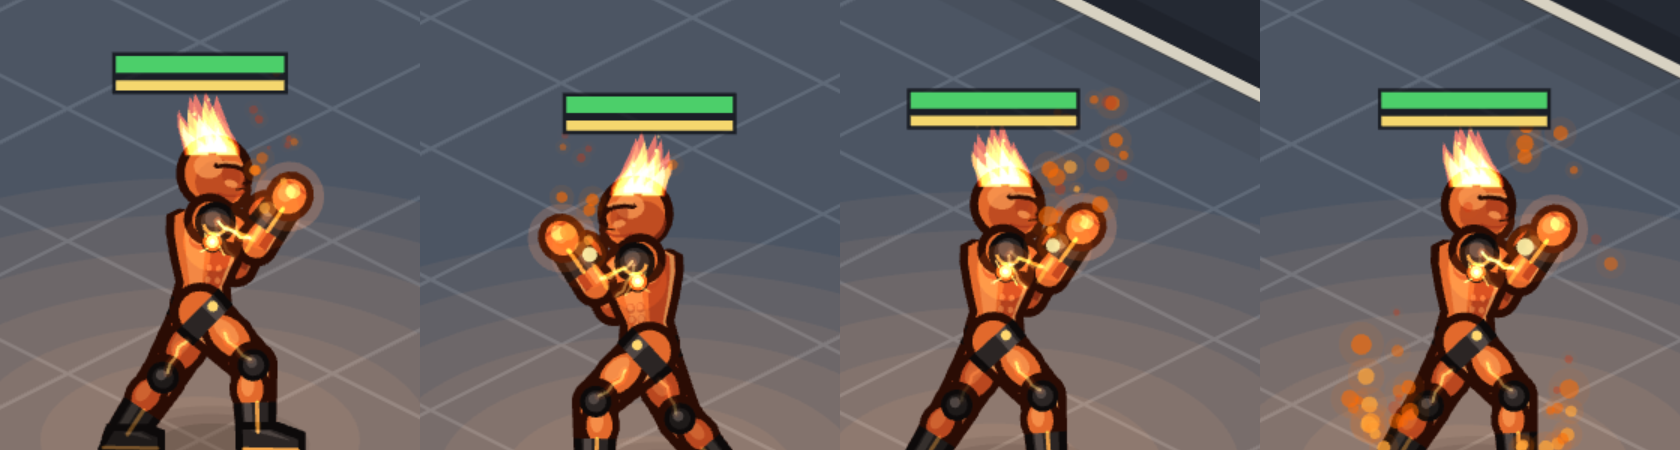
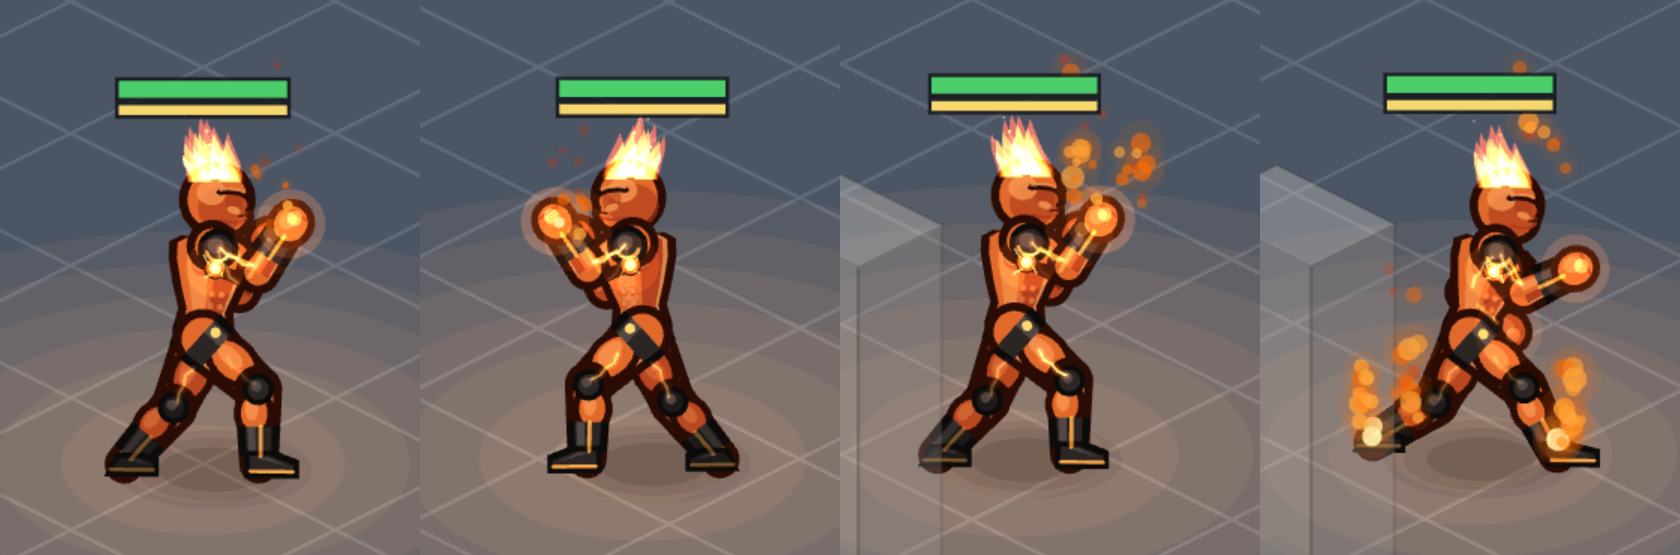
Inferno: slimmer boots (owner); redesign prototypes approved, TD-059 accepted
Claude-Session: https://claude.ai/code/session_01QBNX6gUrhxuARRaUjYajAg

diff --git a/src/rendering/magma-model.ts b/src/rendering/magma-model.ts
@@ -381,33 +381,33 @@ export class MagmaModel {
     const v = frame(knee, ankle);
     // The foot points "forward" (+x in his frame), turned with the shin a little.
     const fx = Math.abs(v.uy) > 0.35 ? 1 : Math.sign(v.ux) || 1;
-    const sole = { x: ankle.x + v.ux * w * 0.35, y: ankle.y + v.uy * w * 0.35 };
-    const toe = { x: sole.x + fx * w * 1.55, y: sole.y + w * 0.08 };
-    const heel = { x: sole.x - fx * w * 0.5, y: sole.y + w * 0.05 };
-    const top = { x: ankle.x - v.ux * w * 0.4, y: ankle.y - v.uy * w * 0.4 };
+    const sole = { x: ankle.x + v.ux * w * 0.3, y: ankle.y + v.uy * w * 0.3 };
+    const toe = { x: sole.x + fx * w * 1.3, y: sole.y + w * 0.06 };
+    const heel = { x: sole.x - fx * w * 0.36, y: sole.y + w * 0.04 };
+    const top = { x: ankle.x - v.ux * w * 0.3, y: ankle.y - v.uy * w * 0.3 };
     const outline = this.c(MAGMA.armourEdge);
     const shape = (grow: number) => [
-      top.x - fx * (w * 0.5 + grow),
+      top.x - fx * (w * 0.34 + grow),
       top.y - grow,
-      top.x + fx * (w * 0.55 + grow),
+      top.x + fx * (w * 0.38 + grow),
       top.y - grow,
       toe.x + fx * grow,
-      toe.y - w * 0.45 - grow,
+      toe.y - w * 0.3 - grow,
       toe.x + fx * grow,
       toe.y + grow,
       heel.x - fx * grow,
       heel.y + grow,
     ];
-    g.poly(shape(w * 0.28)).fill(outline);
+    g.poly(shape(w * 0.2)).fill(outline);
     g.poly(shape(0)).fill(this.c(far ? toward(MAGMA.armour, 0x000000, 0.3) : MAGMA.armour));
     // Lit upper and a glowing sole line.
     g.poly([
-      top.x - fx * w * 0.2,
+      top.x - fx * w * 0.14,
       top.y + w * 0.05,
-      top.x + fx * w * 0.5,
+      top.x + fx * w * 0.34,
       top.y + w * 0.05,
       toe.x - fx * w * 0.2,
-      toe.y - w * 0.38,
+      toe.y - w * 0.25,
     ]).fill({
       color: this.c(MAGMA.armourLit),
       alpha: far ? 0.35 : 0.7,

diff --git a/STICKMAN_ARENA_MASTER_SPEC.md b/STICKMAN_ARENA_MASTER_SPEC.md
@@ -341,7 +341,7 @@ No numeric values were supplied (OQ-05).
 | REQ-ABL-20 | **Curse of Decay (owner, 12/11/2026, SUP-25; replaces Necro's Teleport on F):** a decay bolt at the opponent; on a hit the target deals 30% less damage and its defence drops by 20% for 6 s (a new curse refreshes the time, never stacks). The target shows green rot on its body and two falling green chevrons overhead; when the curse ends the rot flakes away with its own effect and sound. Cooldown 12 s, 30 stamina. |
 | REQ-ABL-21 | **Shroud: Shadow Escape and lights out (owner, 12/11/2026, SUP-25):** Q **Shadow Escape** (replaces Thrown Blade) is strictly defensive: he sinks into his shadow and slips out 7 m away from the opponent at once, turned aside from walls, never inside walls, furniture or outside the arena; no damage. The ultimate **Hunting Frenzy** now also bursts a light bulb (its own sound) and puts the lights out on every opponent for its 8 s: the opponent sees only a 1.6 m circle round itself, everything else almost black (an AI cannot find targets beyond it), while Shroud sees everything in a night-vision view. Knife damage bonus 10% (was 35%); everything else unchanged. |
 | REQ-AUD-10 | **Battle music and the fight stinger (owner, 12/11/2026, SUP-24):** fight arenas play the **owner's supplied Japanese gaming boss-battle track** (owner: "use this audio instead, just use this"), unchanged except that its final fade-out is cut and its end crossfaded on the beat back into the body (43.7 s), so it plays the intro once and then loops for the whole fight with no gap, from FIGHT!, mixed under the combat sounds (music volume in Settings). The READY... FIGHT! intro carries an original cinematic stinger (READY hit, an accelerating drum build, a breath of silence, a huge FIGHT impact and a hall echo) modelled on the owner's voice reference and rendered by `tools/audio/`. The Testing Area keeps no music (SUP-22). |
-| REQ-VIS-10 | **Visual redesign, prototype stage (owner, 13/11/2026):** the game's look moves toward the owner's reference images 2 and 3 (painted, muscular, professionally designed fighters and detailed furniture). First two prototypes, for owner approval before anything else is redesigned: **Inferno** (a heroic muscular build with shaded anatomy, ember skin, charcoal armour, a molten chest core, lava veins, glowing fists and a flame crest; on the same rig, so every animation works) with a **premium portrait** drawn from the in-game model, and the **bookshelf** (real cabinetry: board thickness, cornice, plinth, recessed shelves, 3D books and objects, wood grain and lighting; behaviour unchanged). Status: awaiting owner approval. |
+| REQ-VIS-10 | **Visual redesign, prototype stage (owner, 13/11/2026):** the game's look moves toward the owner's reference images 2 and 3 (painted, muscular, professionally designed fighters and detailed furniture). First two prototypes, for owner approval before anything else is redesigned: **Inferno** (a heroic muscular build with shaded anatomy, ember skin, charcoal armour, a molten chest core, lava veins, glowing fists and a flame crest; on the same rig, so every animation works) with a **premium portrait** drawn from the in-game model, and the **bookshelf** (real cabinetry: board thickness, cornice, plinth, recessed shelves, 3D books and objects, wood grain and lighting; behaviour unchanged). Status: **approved by the owner 13/11/2026** (slimmer boots requested and done); this is the standard for the rest of the redesign. |
 | REQ-CTL-20 | **Dodge direction (owner, 12/11/2026):** every dodge (right click, the DODGE button, a stick flick) moves the fighter straight **backwards relative to its facing**, whatever the movement input says. The facing does not change during the dodge. The back-step is quick off the mark and eases to a stop, so it always covers the same distance (about 2.4 m, less only if something blocks it). |
 | REQ-CTL-19 | **Main menu and leaving the game (owner, 12/11/2026):** a main menu (fighter cards, arena choice, Play) opens on a fresh visit. Settings has **Leave game** (back to the menu) and **Fullscreen**. On phones and tablets the game fills the screen (fullscreen and landscape on the first tap where the browser allows; not available on iPhone Safari), and short landscape screens use a compact HUD and a tighter touch cluster so nothing overlaps. |
 | REQ-ABL-11 | **Magic Attack VFX Standard (owner, 11/11/2026; benchmark: the Fireball):** every magic attack uses the stages that fit it (charge, core, travel, impact, reaction, sound, lingering, elemental defeat), in its own element's look, synchronised with its timing and hits (`docs/design/MAGIC_VFX_STANDARD.md`). A fire KO burns the body away to ash. |
@@ -541,6 +541,7 @@ Browser verification uses the documented dev command and browser automation: tes
 
 | Date | Change | By |
 |---|---|---|
+| 13/11/2026 | Owner approved the redesign prototypes (REQ-VIS-10, TD-059 accepted); Inferno's boots slimmed. | Master Developer |
 | 13/11/2026 | Owner: visual-redesign prototypes, Inferno, his premium portrait and the bookshelf (REQ-VIS-10), awaiting approval. | Master Developer |
 | 12/11/2026 | Owner: battle music (the owner's supplied Japanese boss track, looped) and the fight stinger (REQ-AUD-10, SUP-24); Undead Army back on a 10 s timer (SUP-24); Curse of Decay replaces Teleport (REQ-ABL-20, SUP-25); Shadow Escape, lights out and night vision, knife +10% (REQ-ABL-21, SUP-25); steady thrown-furniture arcs (REQ-PHY-13, SUP-26). | Master Developer |
 | 12/11/2026 | Owner: Shroud (REQ-ABL-18); Heavy Attack and ultimate on I (REQ-CMB-30, SUP-23); target lock (REQ-CTL-22); Fire Beam build-up and J/L sweep (REQ-ABL-19); fight intro (REQ-AUD-9); tumbling furniture (REQ-PHY-13); testing area silent (SUP-22); centred heads behind the near arm; restyled ability icons. | Master Developer |

diff --git a/TECHNICAL_DECISIONS.md b/TECHNICAL_DECISIONS.md
@@ -495,9 +495,9 @@ Installed (see `package.json`): pixi.js 8.22, @dimforge/rapier2d 0.21 (TD-023); 
 **Alternatives.** Procedural Web Audio music (rejected: the owner asked for real assets); using the supplied reference files (rejected: references are guides only, spec §2); a status-effect component system (premature with four statuses).
 **Trade-offs.** About 8.5 MB of audio (both formats; a browser downloads one, about 4 MB); the music cannot be heard in CI, so its checks are measured (loop points, seam continuity, decode in the browser) and the owner's listening is the final judge. The supplied track is third-party: its licence must be confirmed by the owner (see the asset register).
 
-### TD-059: Premium redesign inside the code-drawn 2D renderer — PROPOSED (prototype, owner request 13/11/2026)
+### TD-059: Premium redesign inside the code-drawn 2D renderer — ACCEPTED (owner approved the prototypes 13/11/2026)
 **Context.** The owner asked for a full visual redesign toward painted, muscular fighters and detailed furniture (reference images 2 and 3), starting with two prototypes for approval: Inferno with a portrait, and a bookshelf.
 **Decision.** Stay inside the approved renderer (TD-022, TD-045: PixiJS vector drawing, no change to the rendering or physics architecture). A premium look is a **body style** with its own model module drawn on the shared rig (`magma`: `src/rendering/magma-model.ts`), so every animation, ability and reaction drives it unchanged and shared code still never names a character. Painted volume comes from layered fills (outline, mid tone, shadow side, lit side, warm rim), muscle masses, armour plates and an additive glow layer. Portraits stay rendered from the in-game model (no second painting to drift out of step); premium ones add a lit backdrop, vignette and frame and render at twice the resolution. Furniture redesigns replace only the prop's drawing (`src/rendering/bookshelf-view.ts`); size, collision, climbing and damage come from the prop data as before.
 **Alternatives.** Hand-painted sprite sheets (rejected for now: every animation would need painting, and it changes the asset pipeline and the rendering approach, which needs owner approval); a 3D renderer (rejected: architecture change).
 **Trade-offs.** More draw calls per redesigned fighter (still well within budget for a few fighters); quality is limited to what vector drawing can do, so it reads as polished cel-painted art rather than airbrushed illustration.
-**Status.** Proposed; becomes ACCEPTED when the owner approves the prototypes.
+**Status.** ACCEPTED: the owner approved the Inferno and bookshelf prototypes ("I prefer this styling a lot more"), asking for slimmer boots (done). This style is the standard for the rest of the redesign.

diff --git a/assets/ASSET_REGISTER.md b/assets/ASSET_REGISTER.md
@@ -9,5 +9,5 @@ Every runtime asset must be listed here before it is committed (`.claude/rules/a
 | `src/rendering/stickman-view.ts` (code-drawn) | Jointed greybox stickman and dummy | Rendering and Animation | Master Developer (original) | Project | greybox | REQ-ANI-6 | 11/11/2026 |
 | `assets/audio/music-battle-japanese-boss.ogg`, `.mp3` | Music: Japanese gaming boss-battle track, loop-prepared (166.66 s; loop 43.69-166.63 s from first sound) | Audio | Owner-supplied (12/11/2026). The file name indicates Pixabay, author "openmindaudio", item 624650; edits: fade-out cut, end crossfaded into the loop start, re-encoded | Third-party: **owner to confirm** (if from Pixabay: Pixabay Content License, free use in games without attribution) | final | REQ-AUD-10 | 12/11/2026 |
 | `assets/audio/sfx-fight-stinger.ogg`, `.mp3` | SFX: READY... FIGHT! stinger (5.8 s) | Audio | Master Developer (original, rendered by `tools/audio/fight_stinger.py`) | Project | wip | REQ-AUD-10, REQ-AUD-9 | 12/11/2026 |
-| `src/rendering/magma-model.ts` (code-drawn) | Inferno premium model (body style `magma`) and premium portrait finish (`src/rendering/portraits.ts`) | Rendering | Master Developer (original) | Project | wip (prototype, awaiting approval) | REQ-VIS-10 | 13/11/2026 |
-| `src/rendering/bookshelf-view.ts` (code-drawn) | Bookshelf premium redesign | Rendering | Master Developer (original) | Project | wip (prototype, awaiting approval) | REQ-VIS-10 | 13/11/2026 |
+| `src/rendering/magma-model.ts` (code-drawn) | Inferno premium model (body style `magma`) and premium portrait finish (`src/rendering/portraits.ts`) | Rendering | Master Developer (original) | Project | wip (prototype approved 13/11/2026) | REQ-VIS-10 | 13/11/2026 |
+| `src/rendering/bookshelf-view.ts` (code-drawn) | Bookshelf premium redesign | Rendering | Master Developer (original) | Project | wip (prototype approved 13/11/2026) | REQ-VIS-10 | 13/11/2026 |

diff --git a/DEVELOPMENT_PROGRESS.md b/DEVELOPMENT_PROGRESS.md
@@ -27,7 +27,8 @@ Check this table before assigning work. No two active assignments may share a pa
 - Inferno's premium model (body style `magma`, `src/rendering/magma-model.ts`) on the shared rig; premium portrait (from the model, lit backdrop, frame) in the menu and the HUD; the bookshelf redesigned (`src/rendering/bookshelf-view.ts`). REQ-VIS-10, TD-059 (proposed).
 - Checked in the running game (screenshots in `docs/screenshots/prototype-redesign/`): idle both facings, jab, heavy, Fire Beam, Flame Detonation, block, flinch, knockdown, get-up, fire KO, climbing a bookshelf; no detached parts, no console errors.
 - Tests: 378 unit/integration pass; lint, typecheck and build clean.
-- **Stopped for owner approval.** Not started: other fighters, furniture, arenas, UI; Grapple Slam polish; falling, landing and recovery; AI abilities; the Tournament mode.
+- Owner approved the style (13/11/2026) and asked for slimmer boots (done).
+- Previously stopped for owner approval. Not started: other fighters, furniture, arenas, UI; Grapple Slam polish; falling, landing and recovery; AI abilities; the Tournament mode.
 
 ### 12/11/2026 (evening): Necro and Shroud reworks, steady throws, battle music and stinger (owner requests; Master Developer)
 - Necro: Undead Army skeletons last 10 s again (SUP-24). Teleport was reworked (one press away, double press in: af0d35e), then replaced by **Curse of Decay** on F at the owner's request (REQ-ABL-20).
